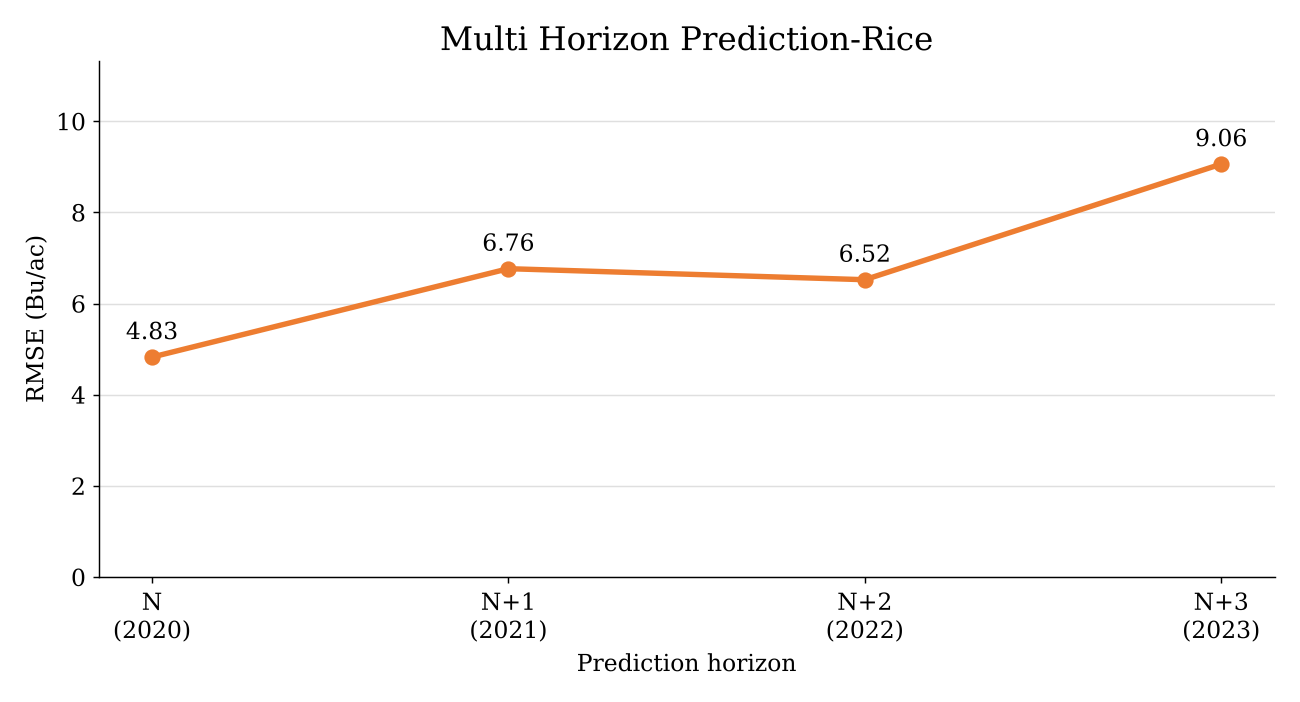
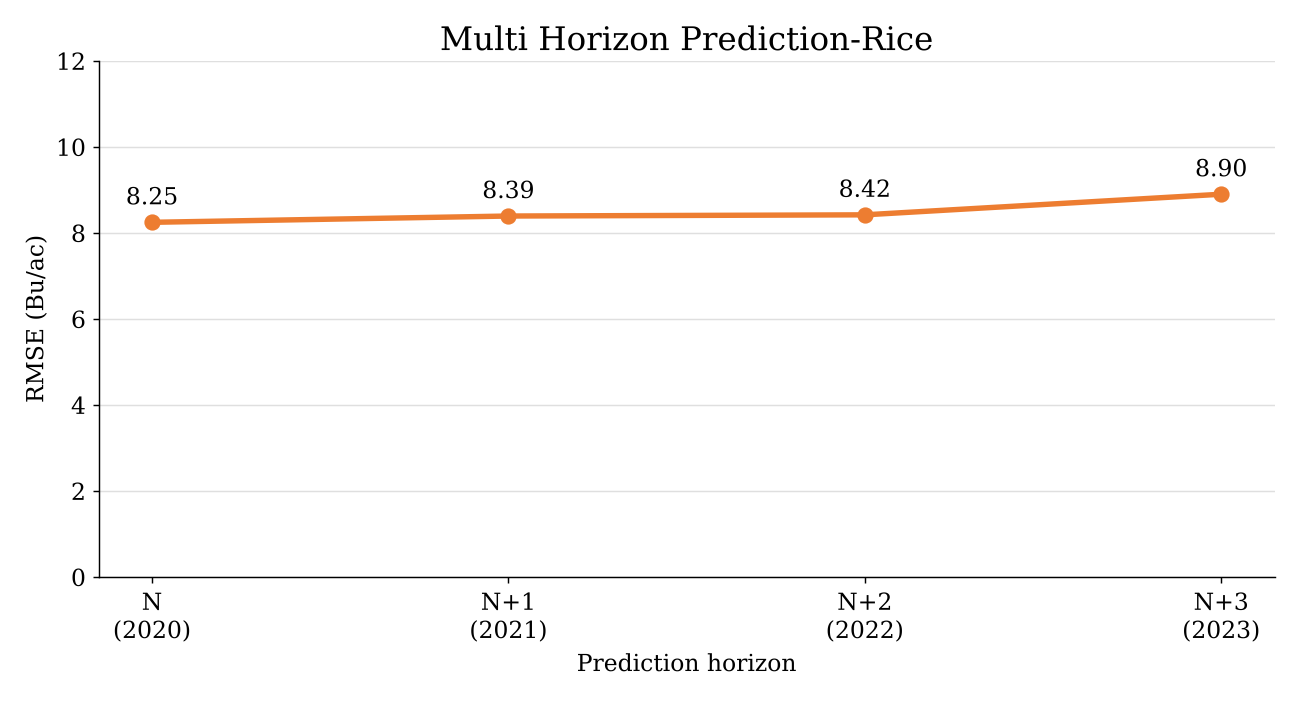
Multi Horizon: update Rice RMSE values
Claude-Session: https://claude.ai/code/session_013DT5tnE7idHBZSHx7A1BF2

diff --git a/src/multi_horizon.jsx b/src/multi_horizon.jsx
@@ -120,10 +120,10 @@ function MultiHorizonPrediction() {
                   <tr><td>No. of districts: </td><td>24</td></tr>
                   <tr><td>Unit: </td><td>Bu/ac</td></tr>
                   <tr><td colSpan={2}><b>RMSE</b></td></tr>
-                  <tr><td>N (2020) : </td><td>4.825</td></tr>
-                  <tr><td>N+1 (2021) : </td><td>6.765</td></tr>
-                  <tr><td>N+2 (2022) : </td><td>6.523</td></tr>
-                  <tr><td>N+3 (2023) : </td><td>9.060</td></tr>
+                  <tr><td>N (2020) : </td><td>8.2463</td></tr>
+                  <tr><td>N+1 (2021) : </td><td>8.3925</td></tr>
+                  <tr><td>N+2 (2022) : </td><td>8.4203</td></tr>
+                  <tr><td>N+3 (2023) : </td><td>8.8995</td></tr>
                 </tbody>
               </Table>
             </div>
